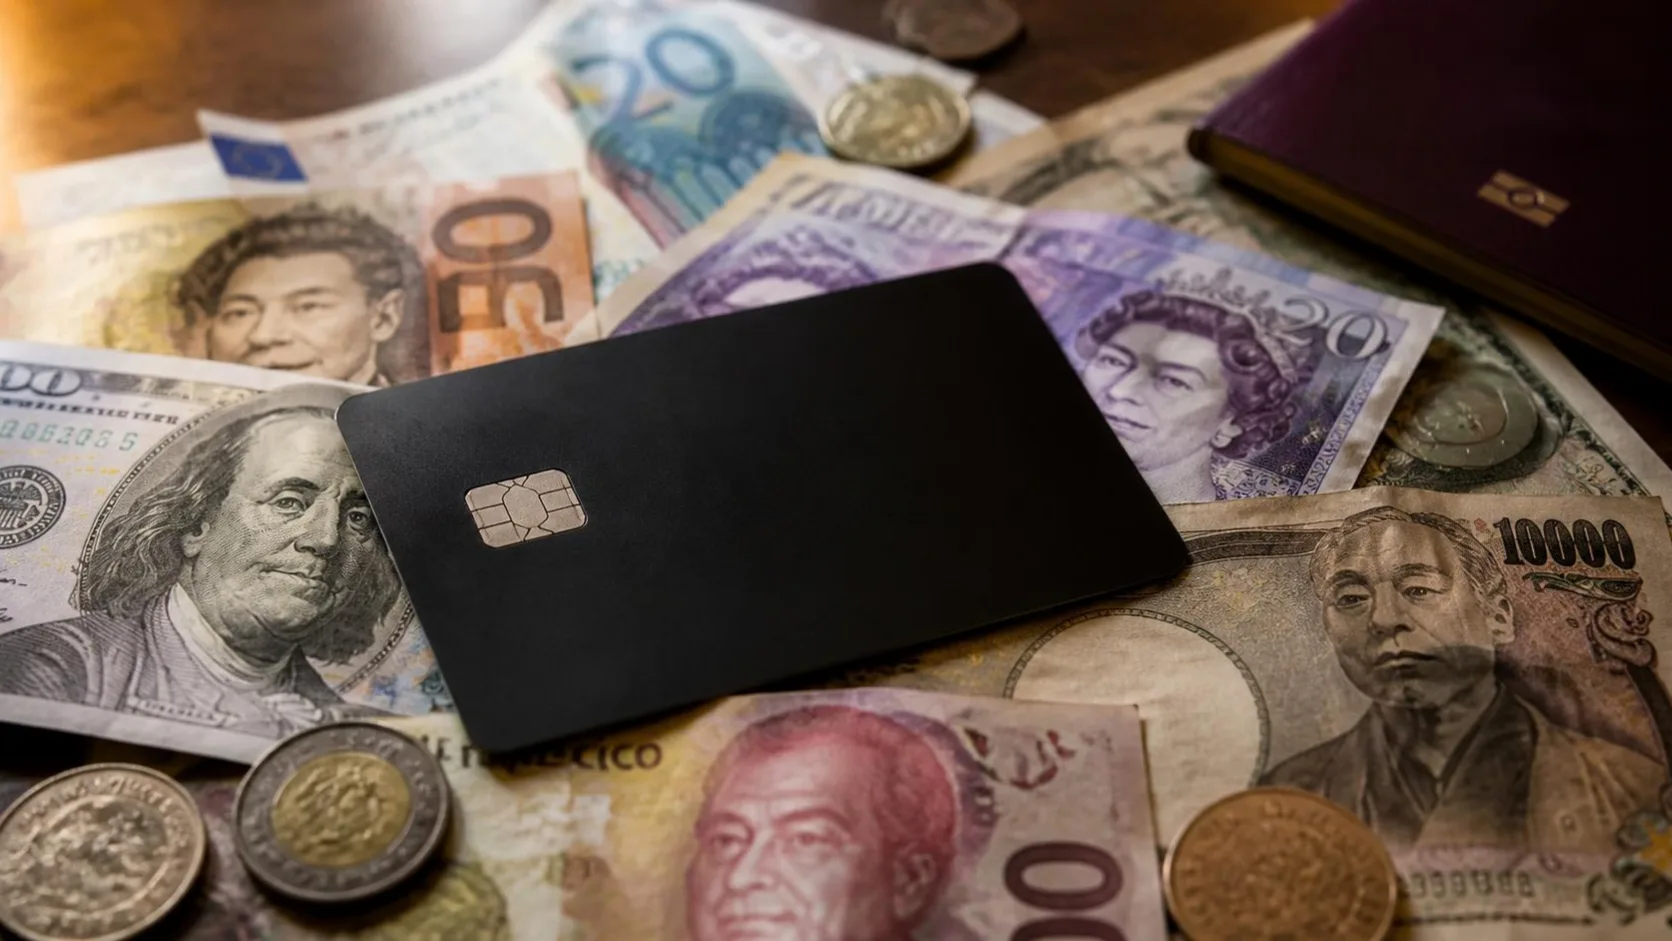
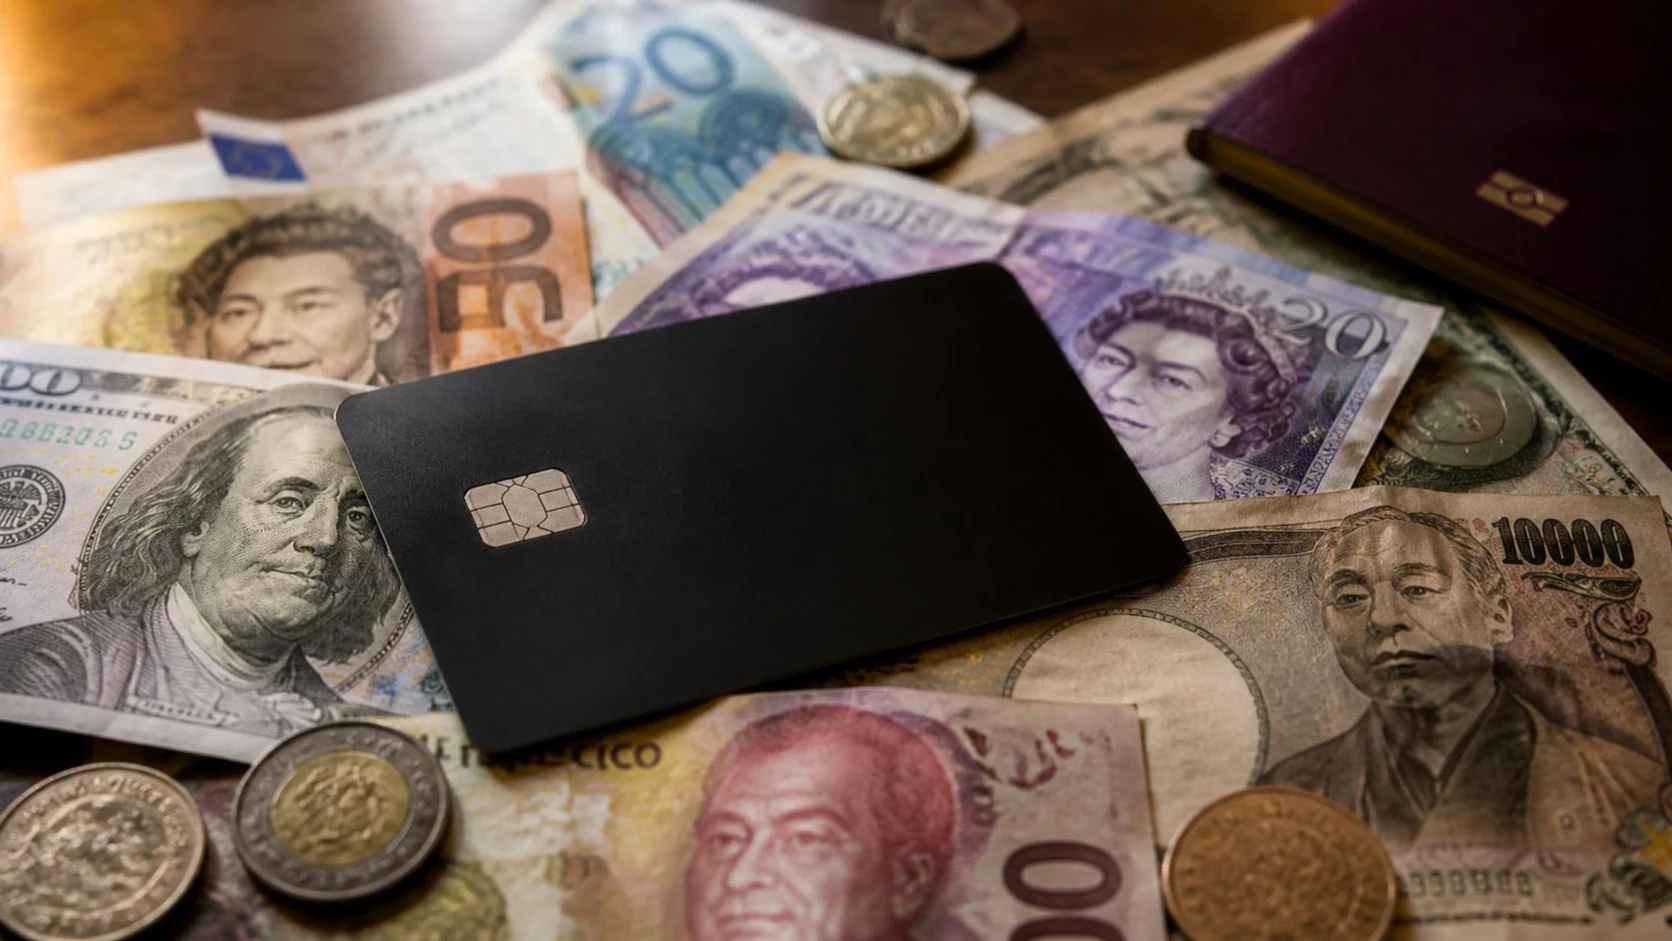
fix(blog): sharper hero images
Re-export the no-FX cover at native resolution (quality 90), and serve
page hero images at quality 90 instead of Next 16's default-only 75.

diff --git a/next.config.ts b/next.config.ts
@@ -1,6 +1,12 @@
 import type { NextConfig } from "next";
 
 const nextConfig: NextConfig = {
+  /* Next 16 allows only quality 75 unless more are listed here. Page hero
+     images are photographs shown large, and 75 visibly softens them. */
+  images: {
+    qualities: [75, 90],
+  },
+
   /* The blog pages are ISR, so content/blog is read on the server when a page
      revalidates, not only at build time. The tracer does not follow a readdir
      on a runtime-built path, and the failure mode is ENOENT in production

diff --git a/src/components/SeoLayout.tsx b/src/components/SeoLayout.tsx
@@ -68,6 +68,7 @@ export default function SeoLayout({
                 alt={heroImageAlt ?? title}
                 fill
                 sizes="(max-width: 720px) 92vw, (max-width: 1100px) 40vw, 430px"
+                quality={90}
                 style={{ objectFit: "cover" }}
                 preload
               />
